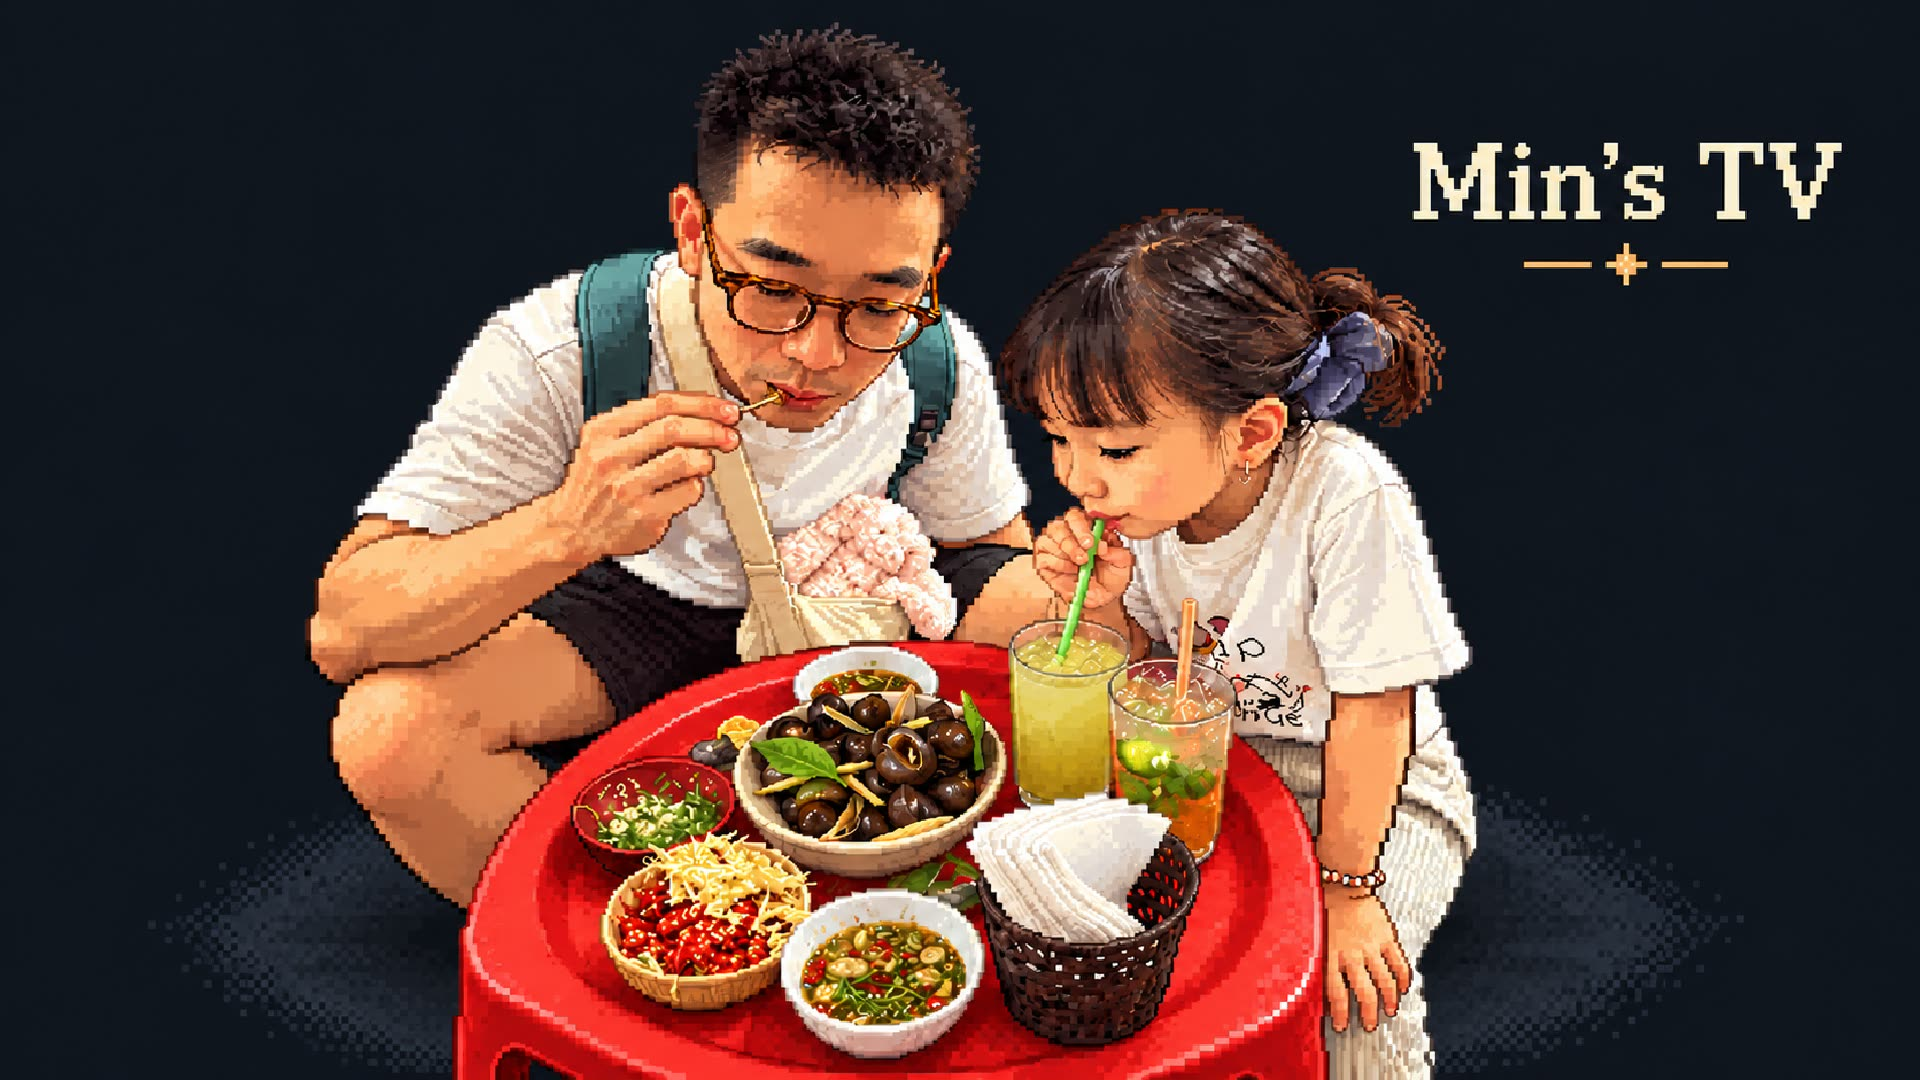
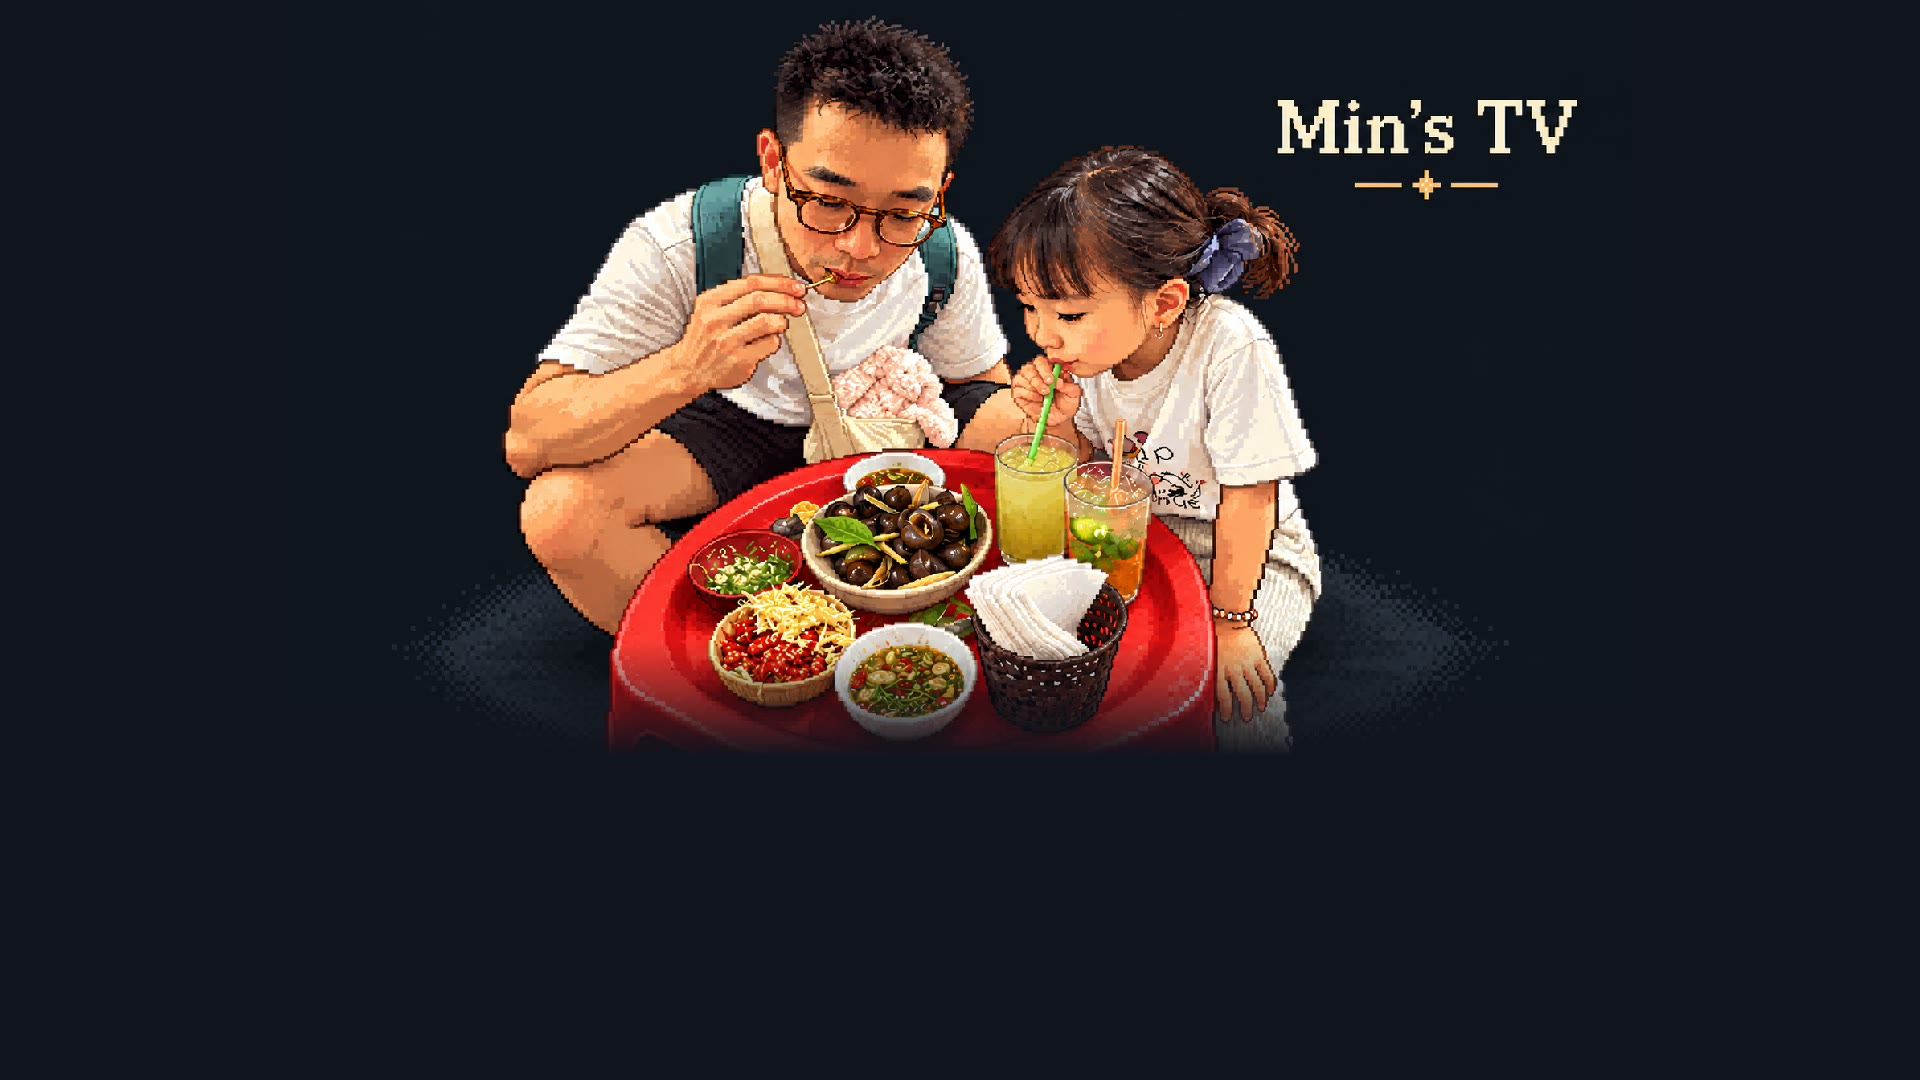
fix(themes): keep the mins-tv dock band on plain navy
Place the picture in the top 70% of the frame on a matching navy canvas
with a short fade at its bottom edge, so the dock band and tile names sit
on dark background. Drop wallpaper_dim, which dimmed the whole picture.

diff --git a/themes/README.md b/themes/README.md
@@ -17,7 +17,7 @@ powershell -ExecutionPolicy Bypass -File tools\theme.ps1 -TvHost 192.168.1.50 th
 | `default/` | The built-in look written out as JSON, as a starting point for your own |
 | `aurora/` | A dark aurora wallpaper (teal and violet on navy, darker at the bottom) with a matching background colour |
 | `dussehra/` | Festive skin for Dussehra (ends 21 Oct 2026): a marigold toran, a faint gold rangoli, a diya for Wi-Fi, a bell for Inputs, a marigold for Settings and a petal shower |
-| `mins-tv/` | A personal pixel-art wallpaper (father and daughter at a street-food table) on a dark navy background, dimmed a quarter so the dock band and tile names stay readable over the red table |
+| `mins-tv/` | A personal pixel-art wallpaper (father and daughter at a street-food table) set in the top of the frame on a dark navy background, so the dock band and tile names sit on plain navy |
 | `pixel/` | A retro 8-bit night skyline wallpaper with a matching navy background; the time-of-day backdrop stays off so the flat colours stay flat |
 | `six-columns/` | Six smaller tiles per row and one grid row visible under the dock |
 
